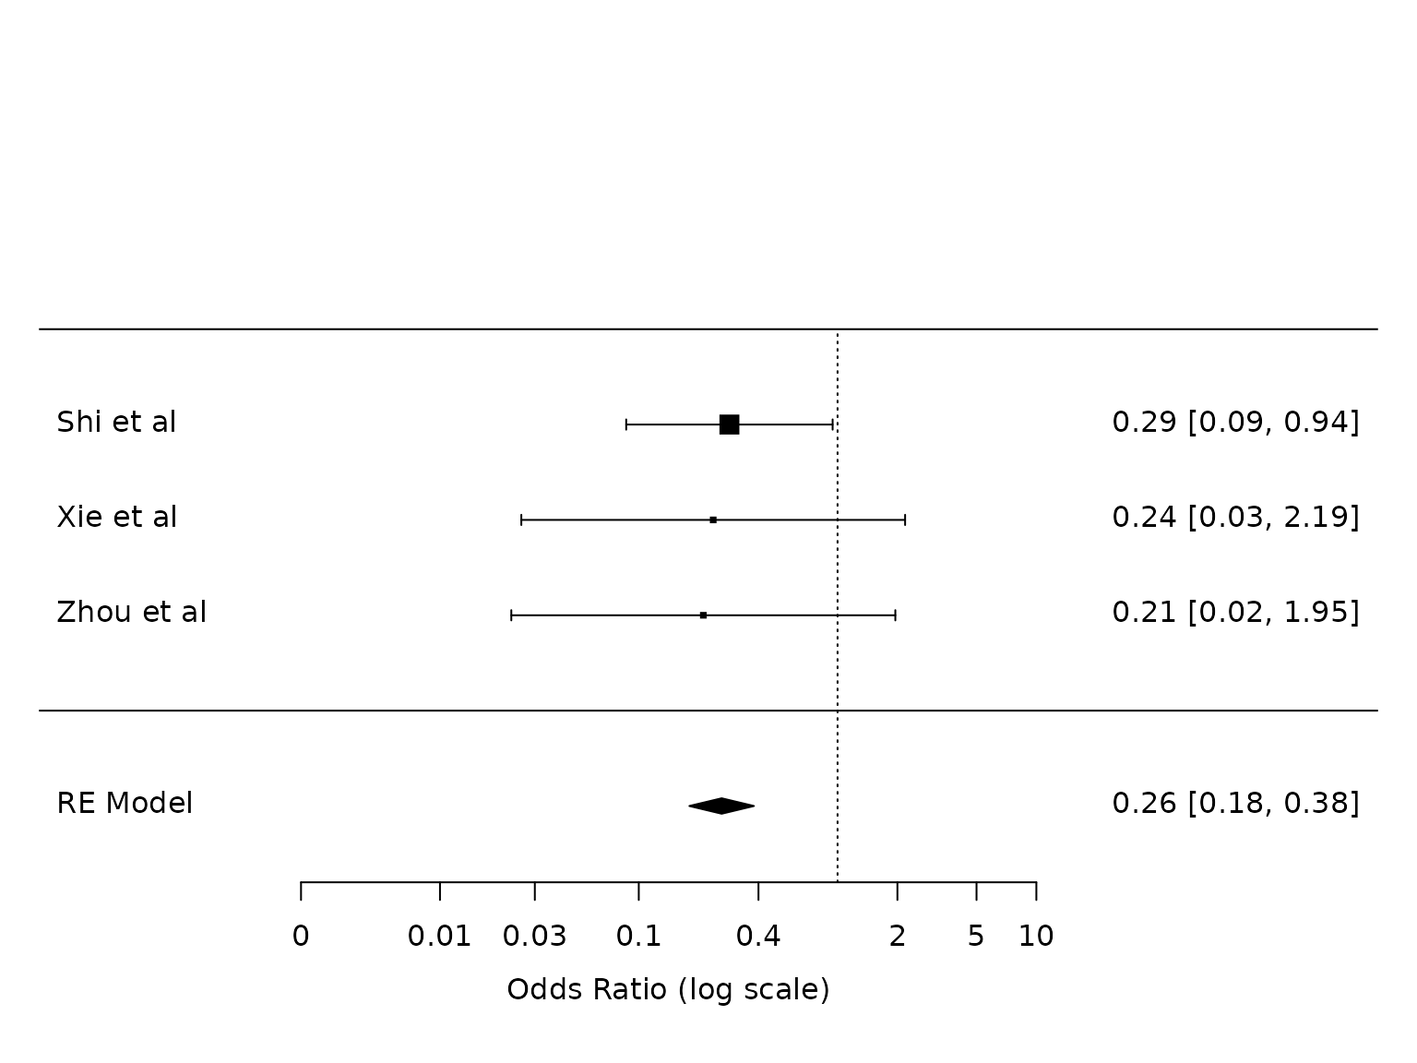
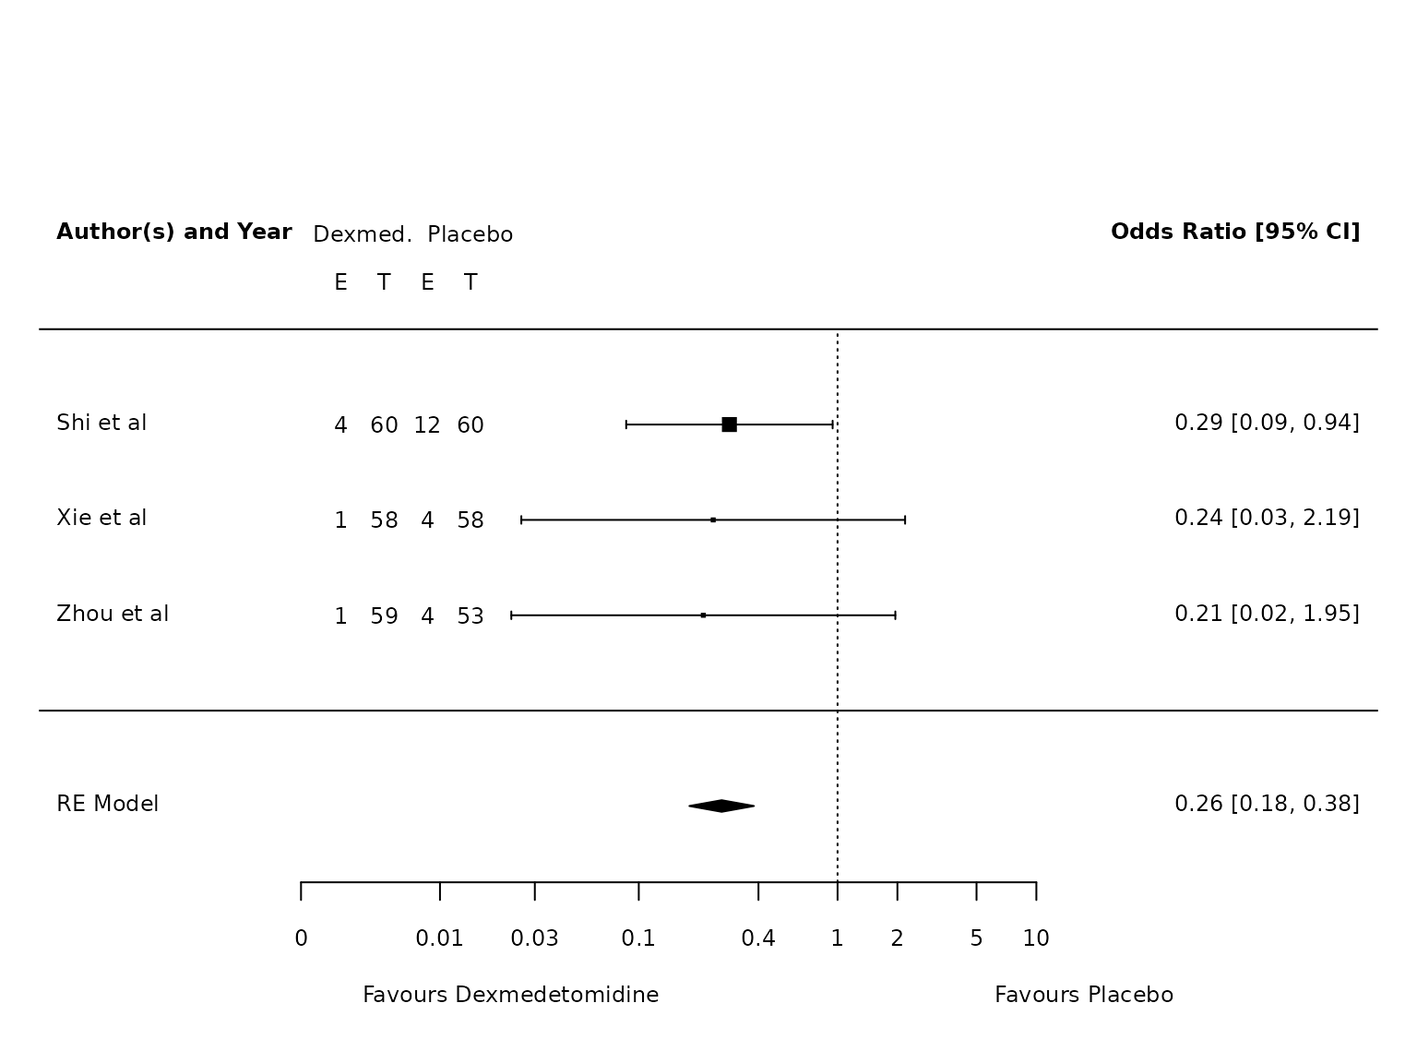
Deploying to gh-pages from @ martinlaw/dex@88acd2597abe053759474c5313b269c505f2b5a8 🚀

diff --git a/articles/Primary_outcomes.html b/articles/Primary_outcomes.html
@@ -225,28 +225,51 @@ correct?</p>
 <span>                atransf<span class="op">=</span><span class="va">exp</span>,</span>
 <span>                at<span class="op">=</span><span class="fu"><a href="https://rdrr.io/r/base/Log.html" class="external-link">log</a></span><span class="op">(</span><span class="fu"><a href="https://rdrr.io/r/base/c.html" class="external-link">c</a></span><span class="op">(</span><span class="fl">0.002</span>, <span class="fl">0.01</span>, <span class="fl">0.03</span>, <span class="fl">0.1</span>, <span class="fl">0.4</span>, <span class="fl">1</span>, <span class="fl">2</span>, <span class="fl">5</span>, <span class="fl">10</span><span class="op">)</span><span class="op">)</span>,</span>
 <span>                ilab <span class="op">=</span> <span class="fu"><a href="https://rdrr.io/r/base/cbind.html" class="external-link">cbind</a></span><span class="op">(</span><span class="va">ai_pneu</span>, <span class="va">n1i</span>, <span class="va">bi_pneu</span>, <span class="va">n2i</span><span class="op">)</span>,</span>
-<span>                ilab.xpos <span class="op">=</span> <span class="fu"><a href="https://rdrr.io/r/base/c.html" class="external-link">c</a></span><span class="op">(</span><span class="op">-</span><span class="fl">9.5</span>,<span class="op">-</span><span class="fl">8.5</span>,<span class="op">-</span><span class="fl">7.5</span>,<span class="op">-</span><span class="fl">6.5</span><span class="op">)</span>,</span>
+<span>                ilab.xpos <span class="op">=</span> <span class="fu"><a href="https://rdrr.io/r/base/c.html" class="external-link">c</a></span><span class="op">(</span><span class="op">-</span><span class="fl">9.5</span>,<span class="op">-</span><span class="fl">8.5</span>,<span class="op">-</span><span class="fl">7.5</span>,<span class="op">-</span><span class="fl">6.5</span><span class="op">)</span><span class="op">+</span><span class="fl">1.75</span>,</span>
 <span>                cex<span class="op">=</span><span class="fl">.75</span>, header<span class="op">=</span><span class="fu"><a href="https://rdrr.io/r/base/c.html" class="external-link">c</a></span><span class="op">(</span><span class="st">"Author(s) and Year"</span><span class="op">)</span>,</span>
 <span>                xlab<span class="op">=</span><span class="st">""</span></span>
 <span><span class="op">)</span></span>
-<span><span class="fu"><a href="https://rdrr.io/r/graphics/text.html" class="external-link">text</a></span><span class="op">(</span><span class="fu"><a href="https://rdrr.io/r/base/c.html" class="external-link">c</a></span><span class="op">(</span><span class="op">-</span><span class="fl">9.5</span>,<span class="op">-</span><span class="fl">8.5</span>,<span class="op">-</span><span class="fl">7.5</span>,<span class="op">-</span><span class="fl">6.5</span><span class="op">)</span>, <span class="va">pmhk.pneumonia</span><span class="op">$</span><span class="va">k</span><span class="op">+</span><span class="fl">1.5</span>, <span class="fu"><a href="https://rdrr.io/r/base/c.html" class="external-link">c</a></span><span class="op">(</span><span class="st">"E"</span>, <span class="st">"T"</span>, <span class="st">"E"</span>, <span class="st">"T"</span><span class="op">)</span>, cex<span class="op">=</span><span class="fl">0.75</span><span class="op">)</span></span>
-<span><span class="fu"><a href="https://rdrr.io/r/graphics/text.html" class="external-link">text</a></span><span class="op">(</span><span class="fu"><a href="https://rdrr.io/r/base/c.html" class="external-link">c</a></span><span class="op">(</span><span class="op">-</span><span class="fl">9</span>,<span class="op">-</span><span class="fl">7</span><span class="op">)</span>,     <span class="va">pmhk.pneumonia</span><span class="op">$</span><span class="va">k</span><span class="op">+</span><span class="fl">2</span>, <span class="fu"><a href="https://rdrr.io/r/base/c.html" class="external-link">c</a></span><span class="op">(</span><span class="st">"Dexmed."</span>, <span class="st">"Placebo"</span><span class="op">)</span>, cex<span class="op">=</span><span class="fl">0.75</span><span class="op">)</span></span>
+<span><span class="fu"><a href="https://rdrr.io/r/graphics/text.html" class="external-link">text</a></span><span class="op">(</span><span class="fu"><a href="https://rdrr.io/r/base/c.html" class="external-link">c</a></span><span class="op">(</span><span class="op">-</span><span class="fl">9.5</span>,<span class="op">-</span><span class="fl">8.5</span>,<span class="op">-</span><span class="fl">7.5</span>,<span class="op">-</span><span class="fl">6.5</span><span class="op">)</span><span class="op">+</span><span class="fl">1.75</span>, <span class="va">pmhk.pneumonia</span><span class="op">$</span><span class="va">k</span><span class="op">+</span><span class="fl">1.5</span>, <span class="fu"><a href="https://rdrr.io/r/base/c.html" class="external-link">c</a></span><span class="op">(</span><span class="st">"E"</span>, <span class="st">"T"</span>, <span class="st">"E"</span>, <span class="st">"T"</span><span class="op">)</span>, cex<span class="op">=</span><span class="fl">0.75</span><span class="op">)</span></span>
+<span><span class="fu"><a href="https://rdrr.io/r/graphics/text.html" class="external-link">text</a></span><span class="op">(</span><span class="fu"><a href="https://rdrr.io/r/base/c.html" class="external-link">c</a></span><span class="op">(</span><span class="op">-</span><span class="fl">9</span>,<span class="op">-</span><span class="fl">7</span><span class="op">)</span><span class="op">+</span><span class="fl">1.75</span>,     <span class="va">pmhk.pneumonia</span><span class="op">$</span><span class="va">k</span><span class="op">+</span><span class="fl">2</span>, <span class="fu"><a href="https://rdrr.io/r/base/c.html" class="external-link">c</a></span><span class="op">(</span><span class="st">"Dexmed."</span>, <span class="st">"Placebo"</span><span class="op">)</span>, cex<span class="op">=</span><span class="fl">0.75</span><span class="op">)</span></span>
 <span><span class="fu"><a href="https://rdrr.io/r/graphics/par.html" class="external-link">par</a></span><span class="op">(</span>xpd<span class="op">=</span><span class="cn">NA</span><span class="op">)</span></span>
-<span><span class="fu"><a href="https://rdrr.io/r/graphics/text.html" class="external-link">text</a></span><span class="op">(</span><span class="fu"><a href="https://rdrr.io/r/base/Log.html" class="external-link">log</a></span><span class="op">(</span><span class="fu"><a href="https://rdrr.io/r/base/c.html" class="external-link">c</a></span><span class="op">(</span><span class="fl">0.0005</span>, <span class="fl">45</span><span class="op">)</span><span class="op">)</span>, <span class="op">-</span><span class="fl">4</span>, <span class="fu"><a href="https://rdrr.io/r/base/c.html" class="external-link">c</a></span><span class="op">(</span><span class="st">"Favours Dexmedetomidine"</span>,<span class="st">"Favours Placebo"</span><span class="op">)</span>, pos<span class="op">=</span><span class="fu"><a href="https://rdrr.io/r/base/c.html" class="external-link">c</a></span><span class="op">(</span><span class="fl">4</span>,<span class="fl">2</span><span class="op">)</span>, offset<span class="op">=</span><span class="op">-</span><span class="fl">0.5</span>, cex<span class="op">=</span><span class="fl">0.75</span><span class="op">)</span></span></code></pre></div>
+<span><span class="fu"><a href="https://rdrr.io/r/graphics/text.html" class="external-link">text</a></span><span class="op">(</span><span class="fu"><a href="https://rdrr.io/r/base/Log.html" class="external-link">log</a></span><span class="op">(</span><span class="fu"><a href="https://rdrr.io/r/base/c.html" class="external-link">c</a></span><span class="op">(</span><span class="fl">0.005</span>, <span class="fl">45</span><span class="op">)</span><span class="op">)</span>, <span class="op">-</span><span class="fl">4</span>, <span class="fu"><a href="https://rdrr.io/r/base/c.html" class="external-link">c</a></span><span class="op">(</span><span class="st">"Favours Dexmedetomidine"</span>,<span class="st">"Favours Placebo"</span><span class="op">)</span>, pos<span class="op">=</span><span class="fu"><a href="https://rdrr.io/r/base/c.html" class="external-link">c</a></span><span class="op">(</span><span class="fl">4</span>,<span class="fl">2</span><span class="op">)</span>, offset<span class="op">=</span><span class="op">-</span><span class="fl">0.5</span>, cex<span class="op">=</span><span class="fl">0.75</span><span class="op">)</span></span></code></pre></div>
 <p><img src="figs/hksj%20pneu-1.png" width="768" style="display: block; margin: auto;"></p>
 <div class="sourceCode" id="cb8"><pre class="downlit sourceCode r">
 <code class="sourceCode R"><span><span class="va">pmhk.hypoxemia</span> <span class="op">&lt;-</span> <span class="fu">metafor</span><span class="fu">::</span><span class="fu"><a href="https://wviechtb.github.io/metafor/reference/rma.uni.html" class="external-link">rma</a></span><span class="op">(</span><span class="va">yi</span>, <span class="va">vi</span>, data<span class="op">=</span><span class="va">dat.hypoxemia</span>, method<span class="op">=</span><span class="st">"PM"</span>, test<span class="op">=</span><span class="st">"knha"</span><span class="op">)</span></span>
+<span><span class="co"># metafor::forest(pmhk.hypoxemia,</span></span>
+<span><span class="co">#        atransf=exp,</span></span>
+<span><span class="co">#        at=log(c(0.002, 0.01, 0.03, 0.1, 0.4, 2, 5, 10)))</span></span>
 <span><span class="fu">metafor</span><span class="fu">::</span><span class="fu"><a href="https://wviechtb.github.io/metafor/reference/forest.html" class="external-link">forest</a></span><span class="op">(</span><span class="va">pmhk.hypoxemia</span>,</span>
-<span>       atransf<span class="op">=</span><span class="va">exp</span>,</span>
-<span>       at<span class="op">=</span><span class="fu"><a href="https://rdrr.io/r/base/Log.html" class="external-link">log</a></span><span class="op">(</span><span class="fu"><a href="https://rdrr.io/r/base/c.html" class="external-link">c</a></span><span class="op">(</span><span class="fl">0.002</span>, <span class="fl">0.01</span>, <span class="fl">0.03</span>, <span class="fl">0.1</span>, <span class="fl">0.4</span>, <span class="fl">2</span>, <span class="fl">5</span>, <span class="fl">10</span><span class="op">)</span><span class="op">)</span><span class="op">)</span></span></code></pre></div>
+<span>                atransf<span class="op">=</span><span class="va">exp</span>,</span>
+<span>                at<span class="op">=</span><span class="fu"><a href="https://rdrr.io/r/base/Log.html" class="external-link">log</a></span><span class="op">(</span><span class="fu"><a href="https://rdrr.io/r/base/c.html" class="external-link">c</a></span><span class="op">(</span><span class="fl">0.002</span>, <span class="fl">0.01</span>, <span class="fl">0.03</span>, <span class="fl">0.1</span>, <span class="fl">0.4</span>, <span class="fl">1</span>, <span class="fl">2</span>, <span class="fl">5</span>, <span class="fl">10</span><span class="op">)</span><span class="op">)</span>,</span>
+<span>                ilab <span class="op">=</span> <span class="fu"><a href="https://rdrr.io/r/base/cbind.html" class="external-link">cbind</a></span><span class="op">(</span><span class="va">ai_hypo</span>, <span class="va">n1i</span>, <span class="va">bi_hypo</span>, <span class="va">n2i</span><span class="op">)</span>,</span>
+<span>                ilab.xpos <span class="op">=</span> <span class="fu"><a href="https://rdrr.io/r/base/c.html" class="external-link">c</a></span><span class="op">(</span><span class="op">-</span><span class="fl">7.5</span>,<span class="op">-</span><span class="fl">7</span>,<span class="op">-</span><span class="fl">6.5</span>,<span class="op">-</span><span class="fl">6</span><span class="op">)</span><span class="op">+</span><span class="fl">1.75</span>,</span>
+<span>                cex<span class="op">=</span><span class="fl">.75</span>, header<span class="op">=</span><span class="fu"><a href="https://rdrr.io/r/base/c.html" class="external-link">c</a></span><span class="op">(</span><span class="st">"Author(s) and Year"</span><span class="op">)</span>,</span>
+<span>                xlab<span class="op">=</span><span class="st">""</span></span>
+<span><span class="op">)</span></span>
+<span><span class="fu"><a href="https://rdrr.io/r/graphics/text.html" class="external-link">text</a></span><span class="op">(</span><span class="fu"><a href="https://rdrr.io/r/base/c.html" class="external-link">c</a></span><span class="op">(</span><span class="op">-</span><span class="fl">7.5</span>,<span class="op">-</span><span class="fl">7</span>,<span class="op">-</span><span class="fl">6.5</span>,<span class="op">-</span><span class="fl">6</span><span class="op">)</span><span class="op">+</span><span class="fl">1.75</span>, <span class="va">pmhk.hypoxemia</span><span class="op">$</span><span class="va">k</span><span class="op">+</span><span class="fl">1.5</span>, <span class="fu"><a href="https://rdrr.io/r/base/c.html" class="external-link">c</a></span><span class="op">(</span><span class="st">"E"</span>, <span class="st">"T"</span>, <span class="st">"E"</span>, <span class="st">"T"</span><span class="op">)</span>, cex<span class="op">=</span><span class="fl">0.75</span><span class="op">)</span></span>
+<span><span class="fu"><a href="https://rdrr.io/r/graphics/text.html" class="external-link">text</a></span><span class="op">(</span><span class="fu"><a href="https://rdrr.io/r/base/c.html" class="external-link">c</a></span><span class="op">(</span><span class="op">-</span><span class="fl">7.25</span>,<span class="op">-</span><span class="fl">6</span><span class="op">)</span><span class="op">+</span><span class="fl">1.75</span>,     <span class="va">pmhk.hypoxemia</span><span class="op">$</span><span class="va">k</span><span class="op">+</span><span class="fl">2</span>, <span class="fu"><a href="https://rdrr.io/r/base/c.html" class="external-link">c</a></span><span class="op">(</span><span class="st">"Dexmed."</span>, <span class="st">"Placebo"</span><span class="op">)</span>, cex<span class="op">=</span><span class="fl">0.75</span><span class="op">)</span></span>
+<span><span class="fu"><a href="https://rdrr.io/r/graphics/par.html" class="external-link">par</a></span><span class="op">(</span>xpd<span class="op">=</span><span class="cn">NA</span><span class="op">)</span></span>
+<span><span class="fu"><a href="https://rdrr.io/r/graphics/text.html" class="external-link">text</a></span><span class="op">(</span><span class="fu"><a href="https://rdrr.io/r/base/Log.html" class="external-link">log</a></span><span class="op">(</span><span class="fu"><a href="https://rdrr.io/r/base/c.html" class="external-link">c</a></span><span class="op">(</span><span class="fl">0.005</span>, <span class="fl">40</span><span class="op">)</span><span class="op">)</span>, <span class="op">-</span><span class="fl">3</span>, <span class="fu"><a href="https://rdrr.io/r/base/c.html" class="external-link">c</a></span><span class="op">(</span><span class="st">"Favours Dexmedetomidine"</span>,<span class="st">"Favours Placebo"</span><span class="op">)</span>, pos<span class="op">=</span><span class="fu"><a href="https://rdrr.io/r/base/c.html" class="external-link">c</a></span><span class="op">(</span><span class="fl">4</span>,<span class="fl">2</span><span class="op">)</span>, offset<span class="op">=</span><span class="op">-</span><span class="fl">0.5</span>, cex<span class="op">=</span><span class="fl">0.75</span><span class="op">)</span></span></code></pre></div>
 <p><img src="figs/hksj%20hypox-1.png" width="768" style="display: block; margin: auto;"></p>
 <div class="sourceCode" id="cb9"><pre class="downlit sourceCode r">
-<code class="sourceCode R"><span></span>
-<span><span class="va">pmhk.ards</span> <span class="op">&lt;-</span> <span class="fu">metafor</span><span class="fu">::</span><span class="fu"><a href="https://wviechtb.github.io/metafor/reference/rma.uni.html" class="external-link">rma</a></span><span class="op">(</span><span class="va">yi</span>, <span class="va">vi</span>, data<span class="op">=</span><span class="va">dat.ards</span>, method<span class="op">=</span><span class="st">"PM"</span>, test<span class="op">=</span><span class="st">"knha"</span><span class="op">)</span></span>
+<code class="sourceCode R"><span><span class="va">pmhk.ards</span> <span class="op">&lt;-</span> <span class="fu">metafor</span><span class="fu">::</span><span class="fu"><a href="https://wviechtb.github.io/metafor/reference/rma.uni.html" class="external-link">rma</a></span><span class="op">(</span><span class="va">yi</span>, <span class="va">vi</span>, data<span class="op">=</span><span class="va">dat.ards</span>, method<span class="op">=</span><span class="st">"PM"</span>, test<span class="op">=</span><span class="st">"knha"</span><span class="op">)</span></span>
+<span><span class="co"># metafor::forest(pmhk.ards,</span></span>
+<span><span class="co">#        atransf=exp,</span></span>
+<span><span class="co">#        at=log(c(0.002, 0.01, 0.03, 0.1, 0.4, 2, 5, 10)))</span></span>
 <span><span class="fu">metafor</span><span class="fu">::</span><span class="fu"><a href="https://wviechtb.github.io/metafor/reference/forest.html" class="external-link">forest</a></span><span class="op">(</span><span class="va">pmhk.ards</span>,</span>
-<span>       atransf<span class="op">=</span><span class="va">exp</span>,</span>
-<span>       at<span class="op">=</span><span class="fu"><a href="https://rdrr.io/r/base/Log.html" class="external-link">log</a></span><span class="op">(</span><span class="fu"><a href="https://rdrr.io/r/base/c.html" class="external-link">c</a></span><span class="op">(</span><span class="fl">0.002</span>, <span class="fl">0.01</span>, <span class="fl">0.03</span>, <span class="fl">0.1</span>, <span class="fl">0.4</span>, <span class="fl">2</span>, <span class="fl">5</span>, <span class="fl">10</span><span class="op">)</span><span class="op">)</span><span class="op">)</span></span></code></pre></div>
-<p><img src="figs/hksj%20hypox-2.png" width="768" style="display: block; margin: auto;"></p>
+<span>                atransf<span class="op">=</span><span class="va">exp</span>,</span>
+<span>                at<span class="op">=</span><span class="fu"><a href="https://rdrr.io/r/base/Log.html" class="external-link">log</a></span><span class="op">(</span><span class="fu"><a href="https://rdrr.io/r/base/c.html" class="external-link">c</a></span><span class="op">(</span><span class="fl">0.002</span>, <span class="fl">0.01</span>, <span class="fl">0.03</span>, <span class="fl">0.1</span>, <span class="fl">0.4</span>, <span class="fl">1</span>, <span class="fl">2</span>, <span class="fl">5</span>, <span class="fl">10</span><span class="op">)</span><span class="op">)</span>,</span>
+<span>                ilab <span class="op">=</span> <span class="fu"><a href="https://rdrr.io/r/base/cbind.html" class="external-link">cbind</a></span><span class="op">(</span><span class="va">ai_ards</span>, <span class="va">n1i</span>, <span class="va">bi_ards</span>, <span class="va">n2i</span><span class="op">)</span>,</span>
+<span>                ilab.xpos <span class="op">=</span> <span class="fu"><a href="https://rdrr.io/r/base/c.html" class="external-link">c</a></span><span class="op">(</span><span class="op">-</span><span class="fl">9.5</span>,<span class="op">-</span><span class="fl">8.5</span>,<span class="op">-</span><span class="fl">7.5</span>,<span class="op">-</span><span class="fl">6.5</span><span class="op">)</span><span class="op">+</span><span class="fl">1.75</span>,</span>
+<span>                cex<span class="op">=</span><span class="fl">.75</span>, header<span class="op">=</span><span class="fu"><a href="https://rdrr.io/r/base/c.html" class="external-link">c</a></span><span class="op">(</span><span class="st">"Author(s) and Year"</span><span class="op">)</span>,</span>
+<span>                xlab<span class="op">=</span><span class="st">""</span></span>
+<span><span class="op">)</span></span>
+<span><span class="fu"><a href="https://rdrr.io/r/graphics/text.html" class="external-link">text</a></span><span class="op">(</span><span class="fu"><a href="https://rdrr.io/r/base/c.html" class="external-link">c</a></span><span class="op">(</span><span class="op">-</span><span class="fl">9.5</span>,<span class="op">-</span><span class="fl">8.5</span>,<span class="op">-</span><span class="fl">7.5</span>,<span class="op">-</span><span class="fl">6.5</span><span class="op">)</span><span class="op">+</span><span class="fl">1.75</span>, <span class="va">pmhk.ards</span><span class="op">$</span><span class="va">k</span><span class="op">+</span><span class="fl">1.5</span>, <span class="fu"><a href="https://rdrr.io/r/base/c.html" class="external-link">c</a></span><span class="op">(</span><span class="st">"E"</span>, <span class="st">"T"</span>, <span class="st">"E"</span>, <span class="st">"T"</span><span class="op">)</span>, cex<span class="op">=</span><span class="fl">0.75</span><span class="op">)</span></span>
+<span><span class="fu"><a href="https://rdrr.io/r/graphics/text.html" class="external-link">text</a></span><span class="op">(</span><span class="fu"><a href="https://rdrr.io/r/base/c.html" class="external-link">c</a></span><span class="op">(</span><span class="op">-</span><span class="fl">9</span>,<span class="op">-</span><span class="fl">7</span><span class="op">)</span><span class="op">+</span><span class="fl">1.75</span>,     <span class="va">pmhk.ards</span><span class="op">$</span><span class="va">k</span><span class="op">+</span><span class="fl">2</span>, <span class="fu"><a href="https://rdrr.io/r/base/c.html" class="external-link">c</a></span><span class="op">(</span><span class="st">"Dexmed."</span>, <span class="st">"Placebo"</span><span class="op">)</span>, cex<span class="op">=</span><span class="fl">0.75</span><span class="op">)</span></span>
+<span><span class="fu"><a href="https://rdrr.io/r/graphics/par.html" class="external-link">par</a></span><span class="op">(</span>xpd<span class="op">=</span><span class="cn">NA</span><span class="op">)</span></span>
+<span><span class="fu"><a href="https://rdrr.io/r/graphics/text.html" class="external-link">text</a></span><span class="op">(</span><span class="fu"><a href="https://rdrr.io/r/base/Log.html" class="external-link">log</a></span><span class="op">(</span><span class="fu"><a href="https://rdrr.io/r/base/c.html" class="external-link">c</a></span><span class="op">(</span><span class="fl">0.005</span>, <span class="fl">45</span><span class="op">)</span><span class="op">)</span>, <span class="op">-</span><span class="fl">3.5</span>, <span class="fu"><a href="https://rdrr.io/r/base/c.html" class="external-link">c</a></span><span class="op">(</span><span class="st">"Favours Dexmedetomidine"</span>,<span class="st">"Favours Placebo"</span><span class="op">)</span>, pos<span class="op">=</span><span class="fu"><a href="https://rdrr.io/r/base/c.html" class="external-link">c</a></span><span class="op">(</span><span class="fl">4</span>,<span class="fl">2</span><span class="op">)</span>, offset<span class="op">=</span><span class="op">-</span><span class="fl">0.5</span>, cex<span class="op">=</span><span class="fl">0.75</span><span class="op">)</span></span></code></pre></div>
+<p><img src="figs/hksj%20ARDS-1.png" width="768" style="display: block; margin: auto;"></p>
 </div>
 <div class="section level2">
 <h2 id="funnel-plots">Funnel plots<a class="anchor" aria-label="anchor" href="#funnel-plots"></a>

diff --git a/articles/Secondary_outcomes.html b/articles/Secondary_outcomes.html
@@ -94,7 +94,7 @@
 <h3 id="plateau-pressure">Plateau pressure<a class="anchor" aria-label="anchor" href="#plateau-pressure"></a>
 </h3>
 <div class="sourceCode" id="cb2"><pre class="downlit sourceCode r">
-<code class="sourceCode R"><span><span class="va">dat.plat</span> <span class="op">&lt;-</span> <span class="fu">metafor</span><span class="fu">::</span><span class="fu"><a href="https://wviechtb.github.io/metafor/reference/escalc.html" class="external-link">escalc</a></span><span class="op">(</span>measure<span class="op">=</span><span class="st">"MD"</span>,</span>
+<code class="sourceCode R"><span><span class="va">dat.plat</span> <span class="op">&lt;-</span> <span class="fu">metafor</span><span class="fu">::</span><span class="fu"><a href="https://wviechtb.github.io/metafor/reference/escalc.html" class="external-link">escalc</a></span><span class="op">(</span>measure<span class="op">=</span><span class="st">"MD"</span>, </span>
 <span>                   m1i<span class="op">=</span><span class="va">m1i</span>,</span>
 <span>                   sd1i<span class="op">=</span><span class="va">sd1i</span>,</span>
 <span>                   n1i<span class="op">=</span><span class="va">n1i</span>,</span>
